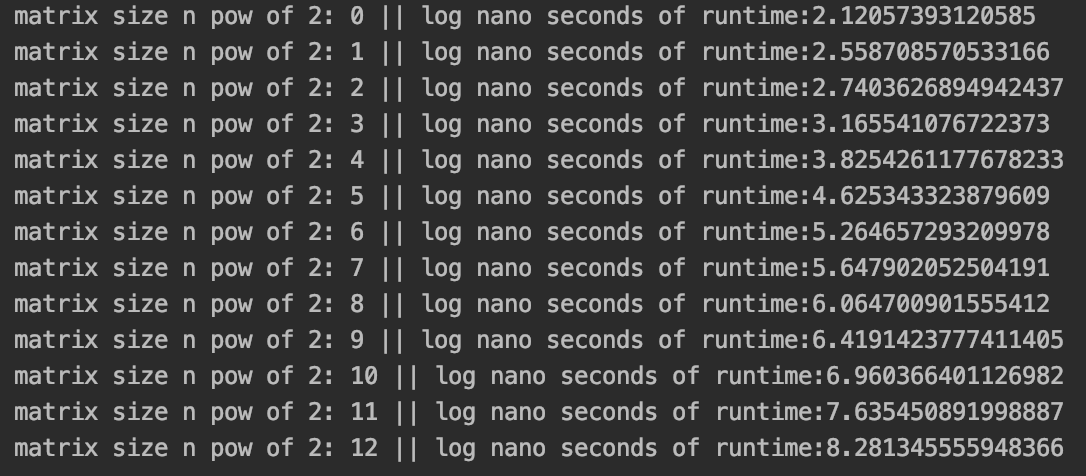
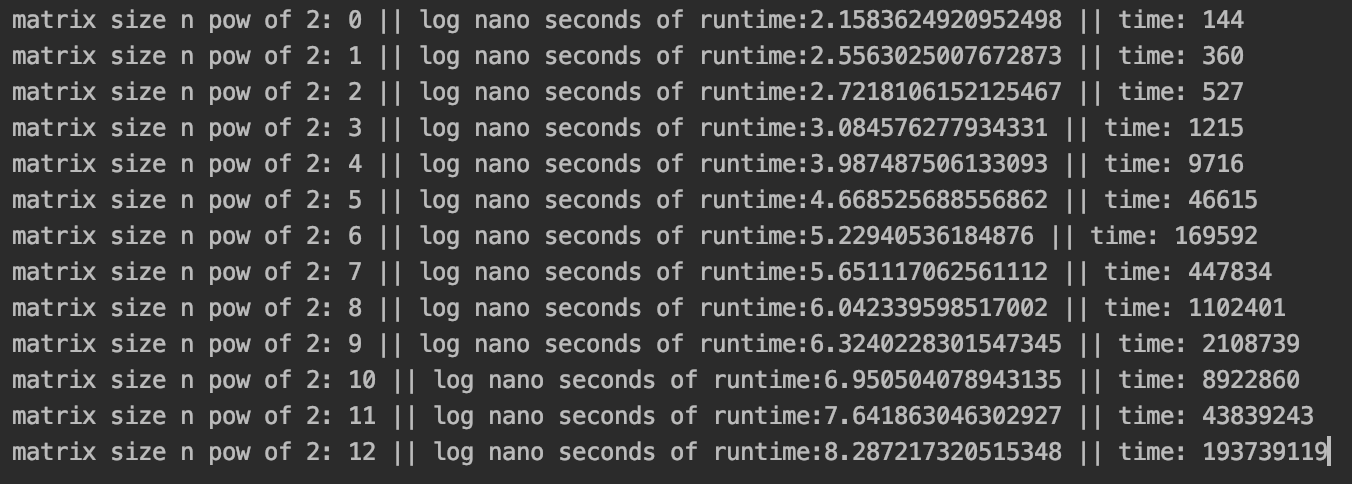
add results

diff --git a/src/Solution.java b/src/Solution.java
@@ -51,7 +51,7 @@ public class Solution {
             long time = (findMatrix(matrix) + findMatrix(matrix) + findMatrix(matrix) + findMatrix(matrix) + findMatrix(matrix)) / 5;
             result[0][i] = i;
             result[1][i] = Math.log10((double)time);
-            System.out.println("matrix size n pow of 2: " + i + " || log nano seconds of runtime:" + result[1][i]);
+            System.out.println("matrix size n pow of 2: " + i + " || log nano seconds of runtime:" + result[1][i] + " || time: " + time);
         }
         return result;
     }
